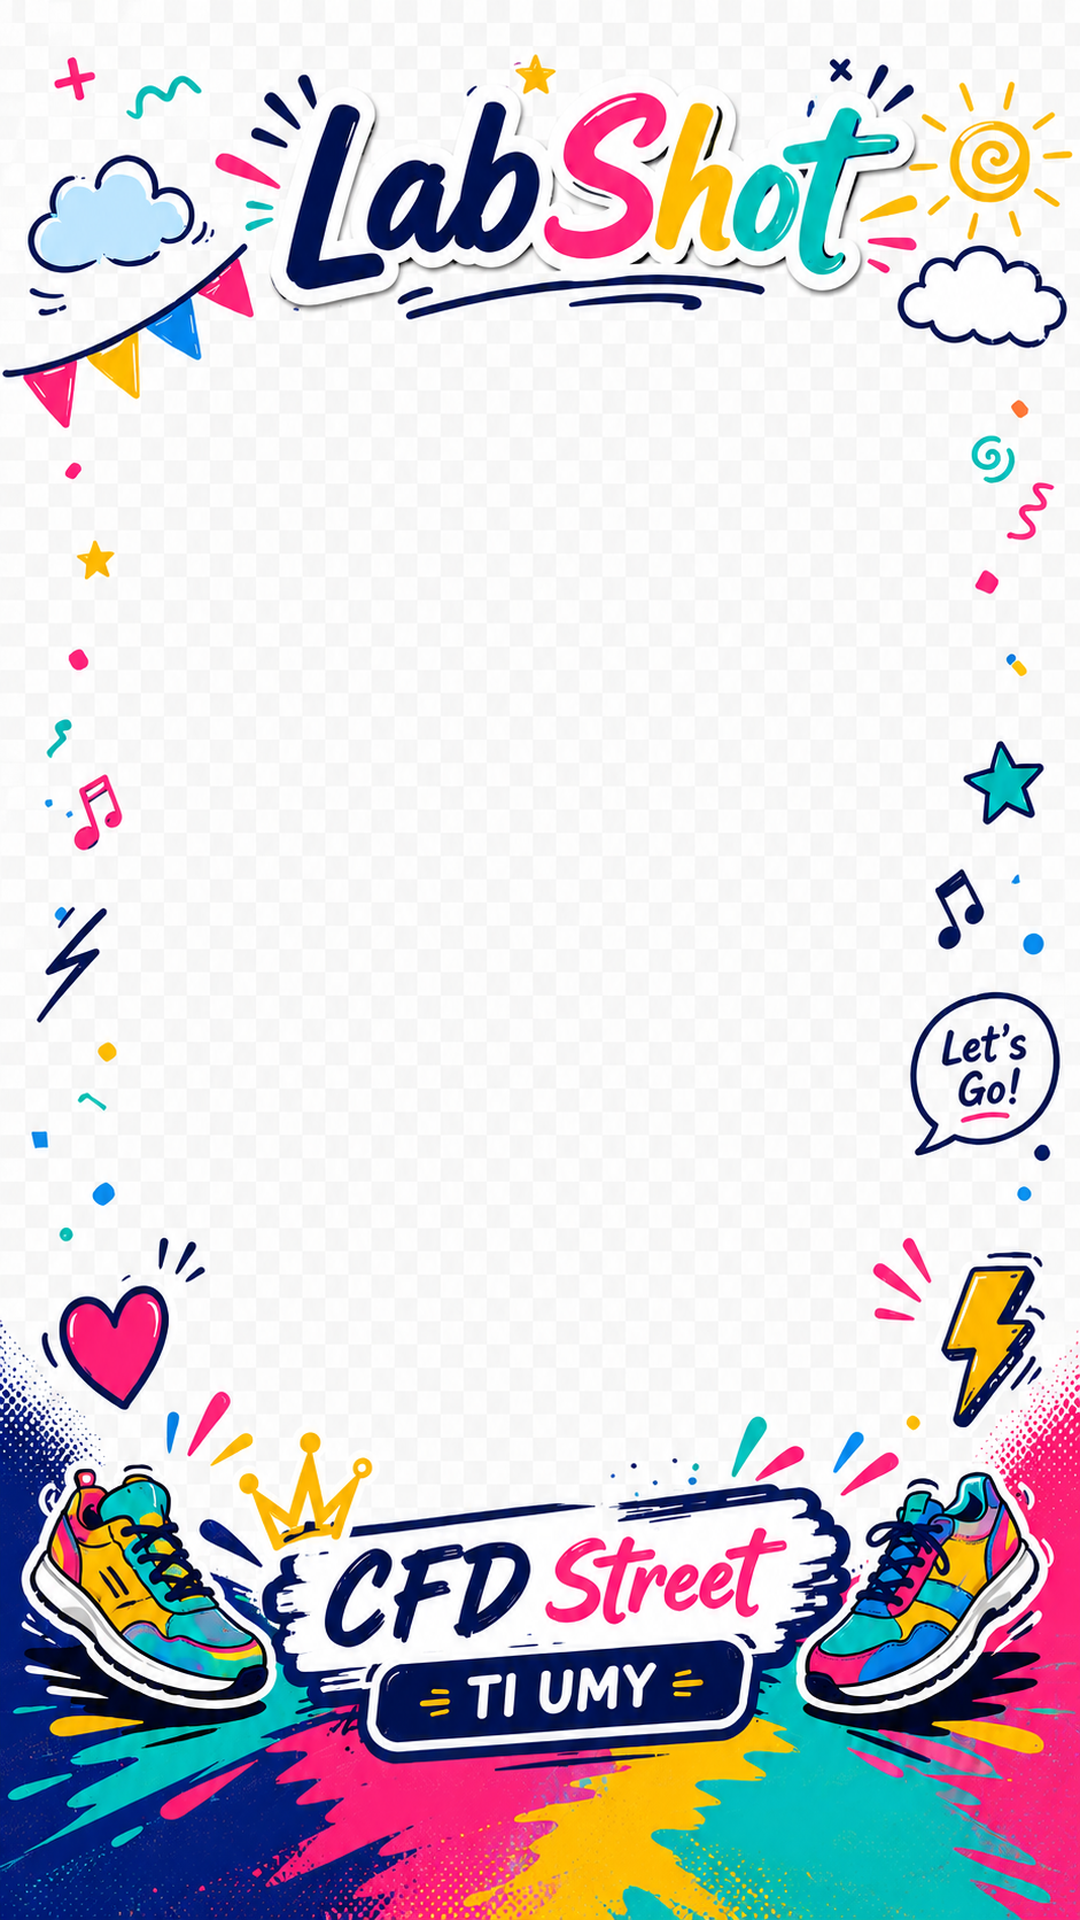
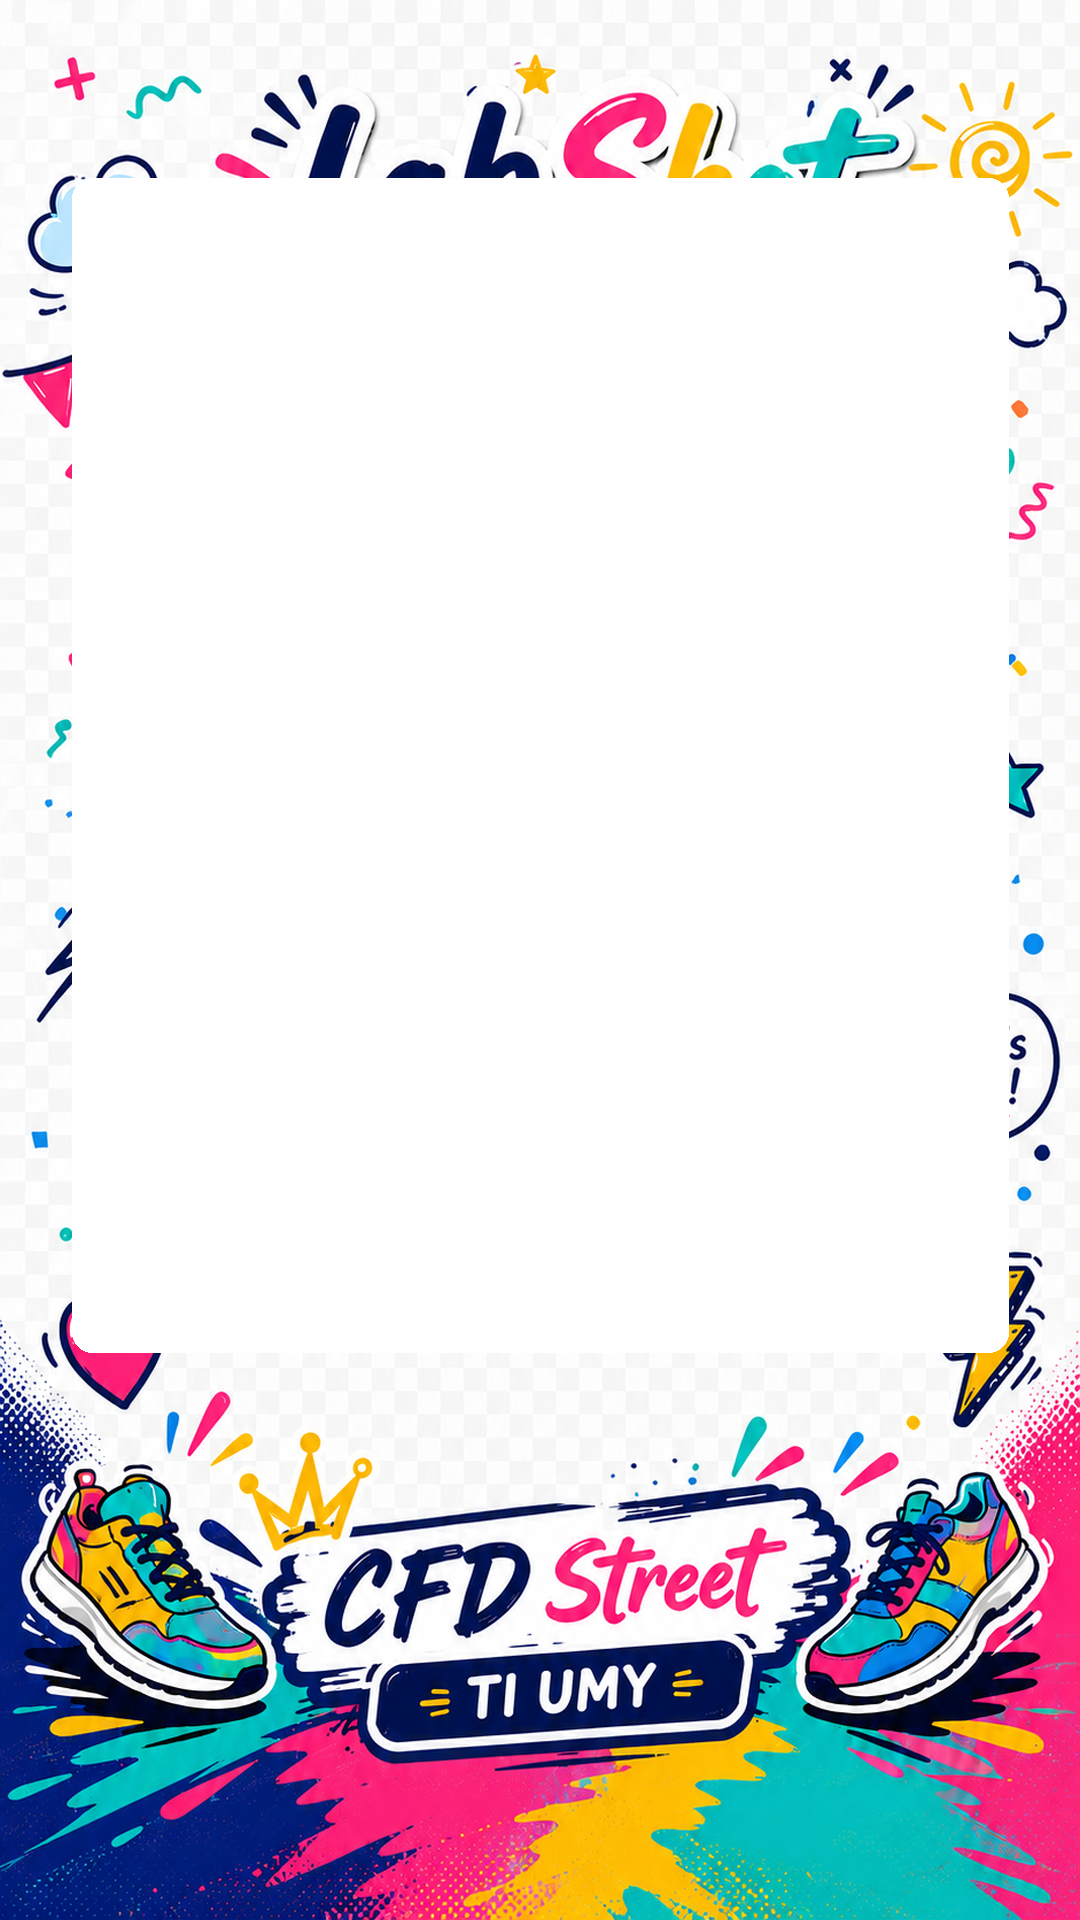
Add files via upload

diff --git a/app.js b/app.js
@@ -33,12 +33,12 @@ const builtInFrames = {
 };
 
 const frameSlots = {
-  // Area foto aman di dalam frame Story IG 1080 x 1920.
-  // Dibuat lebih kecil supaya foto tidak menutup teks, logo, dan ornamen frame.
-  classic: { x: 174, y: 226, w: 732, h: 1064, radius: 34 },
-  cfd: { x: 82, y: 330, w: 916, h: 1032, radius: 22 },
-  capstone: { x: 88, y: 176, w: 904, h: 1332, radius: 18 },
-  wisuda: { x: 112, y: 410, w: 856, h: 900, radius: 22 },
+  // Area foto agar terasa benar-benar masuk ke dalam frame.
+  // Foto dibuat sedikit lebih besar ke arah tepi agar sebagian tertutup frame overlay transparan.
+  classic: { x: 162, y: 214, w: 756, h: 1100, radius: 38 },
+  cfd: { x: 66, y: 172, w: 948, h: 1188, radius: 18 },
+  capstone: { x: 78, y: 140, w: 924, h: 1400, radius: 14 },
+  wisuda: { x: 68, y: 180, w: 944, h: 1240, radius: 20 },
 };
 
 let stream = null;
@@ -194,31 +194,58 @@ function fillBase(ctx, theme) {
   ctx.fillRect(0, 0, STORY_W, STORY_H);
 }
 
-function drawPhotoBlock(ctx, img, x, y, w, h, radius = 24) {
+function addInsetShadow(ctx, x, y, w, h, radius = 24) {
   ctx.save();
-  ctx.fillStyle = 'rgba(255,255,255,.96)';
-  roundedRect(ctx, x - 8, y - 8, w + 16, h + 16, radius + 6);
-  ctx.fill();
+  ctx.strokeStyle = 'rgba(0,0,0,.12)';
+  ctx.lineWidth = 3;
+  roundedRect(ctx, x + 1.5, y + 1.5, w - 3, h - 3, radius);
+  ctx.stroke();
   ctx.restore();
-  drawImageCover(ctx, img, x, y, w, h, radius);
+
+  ctx.save();
+  ctx.fillStyle = 'rgba(0,0,0,.05)';
+  roundedRect(ctx, x, y, w, h, radius);
+  ctx.clip();
+  const grd = ctx.createLinearGradient(x, y, x, y + h);
+  grd.addColorStop(0, 'rgba(0,0,0,.09)');
+  grd.addColorStop(0.08, 'rgba(0,0,0,0)');
+  grd.addColorStop(0.92, 'rgba(0,0,0,0)');
+  grd.addColorStop(1, 'rgba(0,0,0,.07)');
+  ctx.fillStyle = grd;
+  ctx.fillRect(x, y, w, h);
+  ctx.restore();
 }
 
-function drawPhotosIntoSlot(ctx, images, slot) {
+function drawPhotoBlock(ctx, img, x, y, w, h, radius = 24, mode = 'embedded') {
+  drawImageCover(ctx, img, x, y, w, h, radius);
+  if (mode === 'embedded') {
+    addInsetShadow(ctx, x, y, w, h, radius);
+  } else {
+    ctx.save();
+    ctx.strokeStyle = 'rgba(255,255,255,.85)';
+    ctx.lineWidth = 6;
+    roundedRect(ctx, x + 3, y + 3, w - 6, h - 6, radius);
+    ctx.stroke();
+    ctx.restore();
+  }
+}
+
+function drawPhotosIntoSlot(ctx, images, slot, mode = 'embedded') {
   const total = images.length;
   if (total === 1) {
-    drawPhotoBlock(ctx, images[0], slot.x, slot.y, slot.w, slot.h, slot.radius);
+    drawPhotoBlock(ctx, images[0], slot.x, slot.y, slot.w, slot.h, slot.radius, mode);
     return;
   }
 
-  const gap = total === 3 ? 22 : 20;
-  const innerPadX = total >= 3 ? 8 : 0;
-  const innerPadY = total >= 3 ? 4 : 0;
+  const gap = total === 3 ? 18 : 16;
+  const innerPadX = total >= 3 ? 6 : 0;
+  const innerPadY = total >= 3 ? 6 : 0;
   const photoW = slot.w - innerPadX * 2;
   const photoH = Math.floor((slot.h - innerPadY * 2 - gap * (total - 1)) / total);
 
   images.forEach((img, idx) => {
     const y = slot.y + innerPadY + idx * (photoH + gap);
-    drawPhotoBlock(ctx, img, slot.x + innerPadX, y, photoW, photoH, Math.max(18, slot.radius - 8));
+    drawPhotoBlock(ctx, img, slot.x + innerPadX, y, photoW, photoH, Math.max(14, slot.radius - 6), mode);
   });
 }
 
@@ -239,16 +266,12 @@ async function renderFinalImage() {
 
   const frameImage = await getActiveFrameImage();
 
-  if (customFrameImage) {
-    // Untuk frame custom PNG transparan: foto digambar dulu, frame ditempel di atas.
-    drawPhotosIntoSlot(ctx, images, slot);
+  // Foto selalu digambar lebih dulu agar benar-benar berada di balik frame.
+  // Frame bawaan kini sudah dibuat transparan pada area kosongnya.
+  drawPhotosIntoSlot(ctx, images, slot, customFrameImage ? 'custom' : 'embedded');
+
+  if (frameImage) {
     ctx.drawImage(frameImage, 0, 0, canvas.width, canvas.height);
-  } else {
-    // Frame bawaan dari generator masih memiliki pola checkerboard sebagai gambar.
-    // Karena itu frame digambar lebih dulu, lalu foto dimasukkan tepat di area kosongnya.
-    // Ini memperbaiki masalah foto tertutup oleh frame.
-    ctx.drawImage(frameImage, 0, 0, canvas.width, canvas.height);
-    drawPhotosIntoSlot(ctx, images, slot);
   }
 
   const dataUrl = canvas.toDataURL('image/png');
@@ -283,7 +306,7 @@ function renderQRCode(value) {
       height: 102,
       correctLevel: QRCode.CorrectLevel.M
     });
-    els.qrNote.textContent = 'Hasil download sudah memakai format Story IG 1080 × 1920. QR masih berupa link lokal browser.';
+    els.qrNote.textContent = 'Hasil download sudah memakai format Story IG 1080 × 1920, dan foto ditanam di balik frame. QR masih berupa link lokal browser.';
   } else {
     els.qrNote.textContent = 'Hasil download sudah memakai format Story IG 1080 × 1920. Library QR belum termuat.';
   }
@@ -301,7 +324,7 @@ function resetResult(clearPhotos = true) {
   els.downloadBtn.classList.add('disabled');
   els.shareBtn.disabled = true;
   els.qrCode.innerHTML = '';
-  els.qrNote.textContent = 'QR akan aktif setelah foto dibuat. Hasil foto otomatis memakai format Story IG 1080 × 1920.';
+  els.qrNote.textContent = 'QR akan aktif setelah foto dibuat. Hasil foto otomatis memakai format Story IG 1080 × 1920 dan menyatu dengan frame.';
   els.shotCounter.textContent = `${capturedPhotos.length} foto`;
 }
 

diff --git a/index.html b/index.html
@@ -95,7 +95,7 @@
       <label class="field">
         <span>Upload Frame PNG Opsional</span>
         <input id="customFrame" type="file" accept="image/png,image/webp,image/jpeg" />
-        <small>Frame bawaan sudah otomatis aktif. Hasil akhir Story IG 1080 × 1920 dan foto akan masuk ke area bingkai.</small>
+        <small>Frame bawaan sudah otomatis aktif. Foto akan ditanam di balik area kosong frame dengan output Story IG 1080 × 1920.</small>
       </label>
 
       <section class="result-card">

diff --git a/README.md b/README.md
@@ -65,3 +65,9 @@ Versi ini masih statis, sehingga hasil foto hanya tersimpan di browser pengguna.
 - Memperbaiki masalah hasil foto tidak muncul di dalam bingkai.
 - Frame bawaan digambar sebagai latar, lalu foto dimasukkan ke area kosong frame.
 - Output tetap Story Instagram 1080 x 1920.
+
+
+## Update v3
+- Frame bawaan sudah dibuat transparan pada area kosong.
+- Foto sekarang dirender di belakang frame agar terlihat menyatu, bukan sekadar ditempel.
+- Ditambahkan efek inset/shadow halus agar foto terasa masuk ke bingkai.
